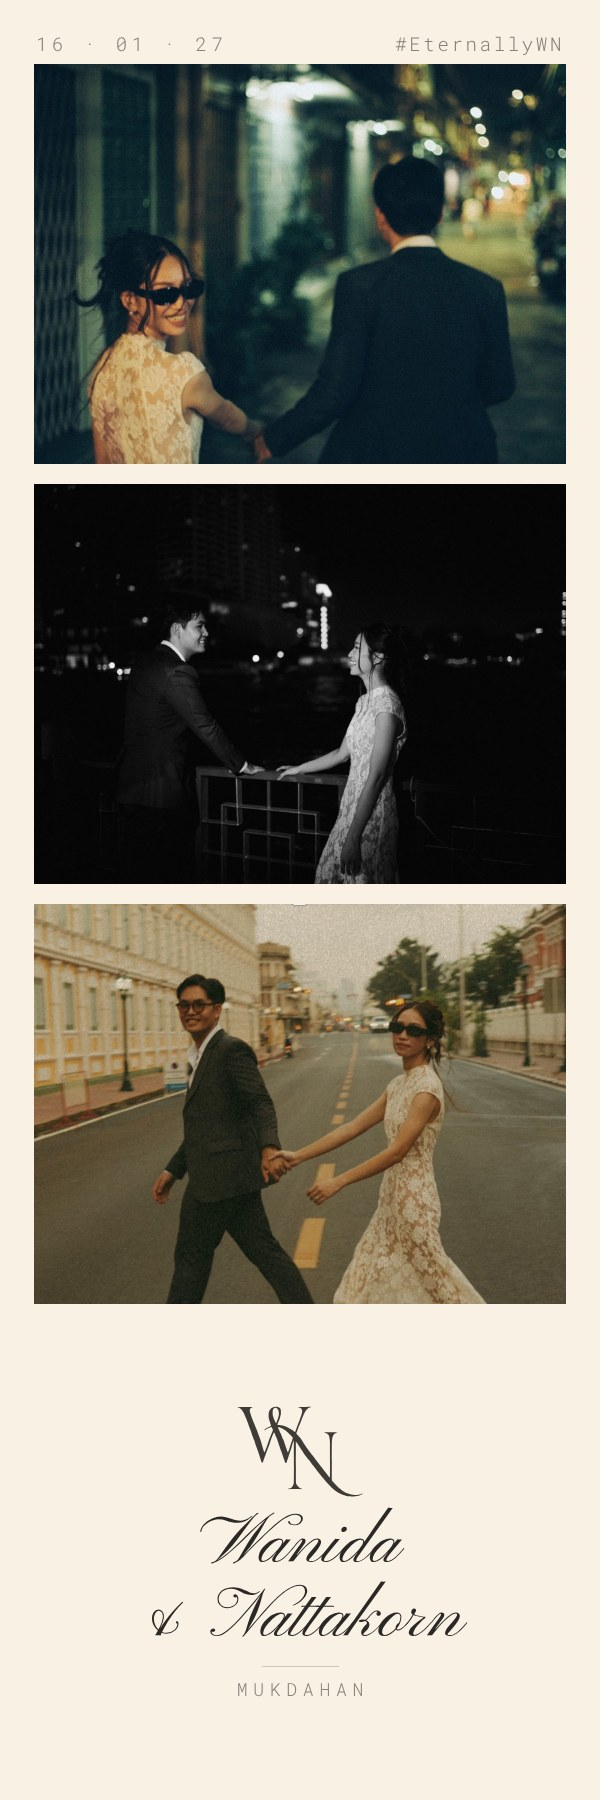
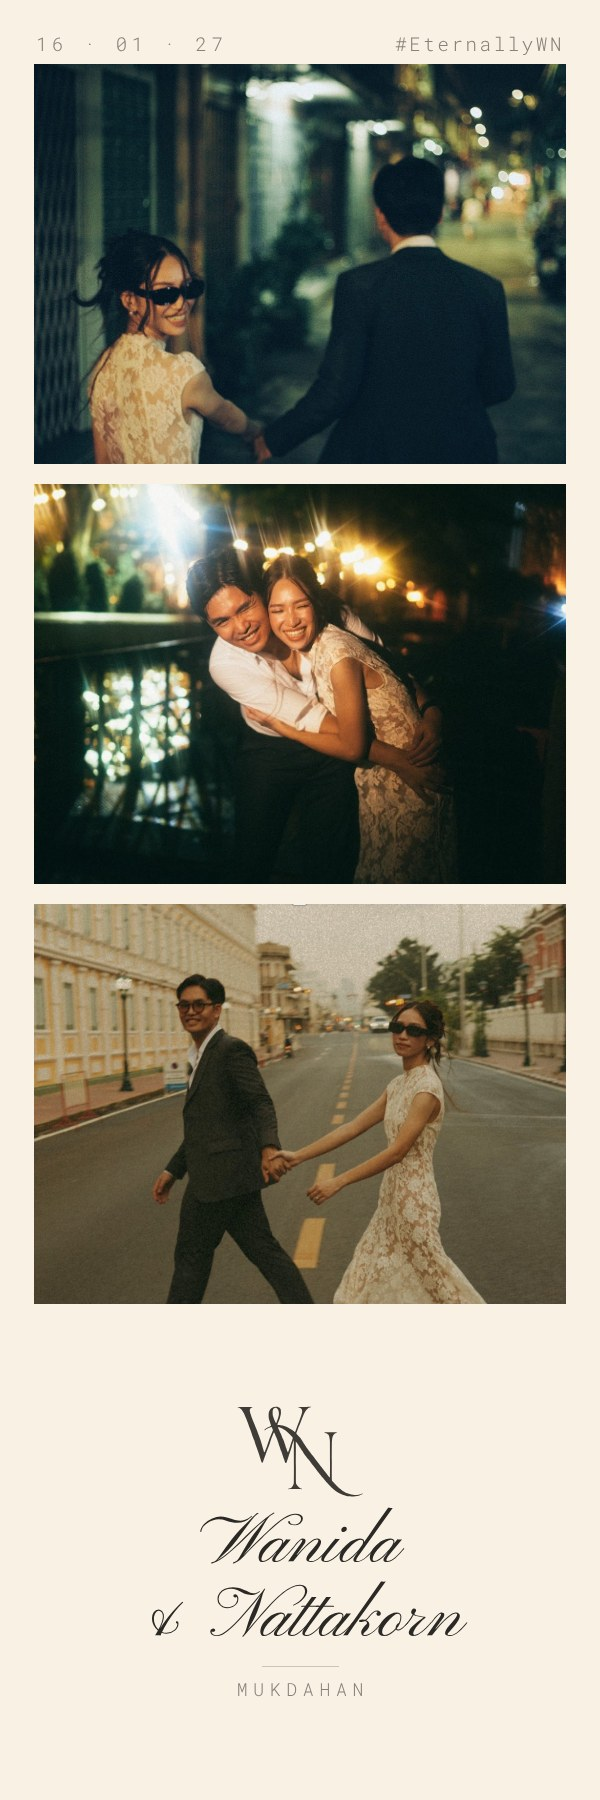
Photo booth previews: new sample photos
The one-pose 4x6 preview now uses the night-street photo of Eve smiling
back (pw-13) instead of the riverside photo (pw-15), which is also
dropped from the strip. The two-pose 4x6 and the strip use the laughing
hug under the string lights (pw-11). Only previews change; the PNG
overlays for the shop are the same.

Claude-Session: https://claude.ai/code/session_01DUdYM8obKhpKK1xEQz7N9u

Changed region(s): [[0.03, 0.2489, 0.78, 0.4978], [0.84, 0.28, 0.96, 0.3733]]

diff --git a/print/photo-booth/render-booth.js b/print/photo-booth/render-booth.js
@@ -18,19 +18,19 @@ const COLOURS = {
 // every size at 300 dpi; windows are [x, y, w, h]
 const LAYOUTS = {
   // 4x6 landscape, one pose: closest to the reference (cream border, date and hashtag in the top corners, names below)
-  '4x6-1pose': { w: 1800, h: 1200, wins: [[60, 92, 1680, 900]], photos: ['pw-15'],
+  '4x6-1pose': { w: 1800, h: 1200, wins: [[60, 92, 1680, 900]], photos: ['pw-13'],
     top: { y: 58, size: 26, inset: 64 }, foot: { y: 992, h: 208, names: 92, sub: 22, mono: 0 } },
   // 4x6 portrait, two poses (shop layout K)
-  '4x6-2pose': { w: 1200, h: 1800, wins: [[60, 92, 1080, 720], [60, 836, 1080, 720]], photos: ['pw-13', 'pw-06'],
+  '4x6-2pose': { w: 1200, h: 1800, wins: [[60, 92, 1080, 720], [60, 836, 1080, 720]], photos: ['pw-11@50% 38%', 'pw-06'],
     top: { y: 58, size: 24, inset: 64 }, foot: { y: 1556, h: 244, names: 96, sub: 22, mono: 0 } },
   // 2x6 strip, three poses (shop layouts A/B). The shop prints two strips side by side on one 4x6.
-  '2x6-3pose': { w: 600, h: 1800, wins: [[34, 64, 532, 400], [34, 484, 532, 400], [34, 904, 532, 400]], photos: ['pw-13', 'pw-15', 'pw-06'],
+  '2x6-3pose': { w: 600, h: 1800, wins: [[34, 64, 532, 400], [34, 484, 532, 400], [34, 904, 532, 400]], photos: ['pw-13', 'pw-11@50% 38%', 'pw-06'],
     top: { y: 42, size: 19, inset: 36 }, foot: { y: 1304, h: 496, names: 70, sub: 18, mono: 132 } },
 };
 
 const page = (L, C, withPhotos) => {
   const holes = L.wins.map(([x, y, w, h]) => `M${x} ${y}h${w}v${h}h-${w}z`).join('');
-  const pics = withPhotos ? L.wins.map(([x, y, w, h], i) => `<img src="${photo(L.photos[i])}" style="position:absolute;left:${x}px;top:${y}px;width:${w}px;height:${h}px;object-fit:cover">`).join('') : '';
+  const pics = withPhotos ? L.wins.map(([x, y, w, h], i) => { const [n, pos] = L.photos[i].split('@'); return `<img src="${photo(n)}" style="position:absolute;left:${x}px;top:${y}px;width:${w}px;height:${h}px;object-fit:cover;object-position:${pos || '50% 50%'}">`; }).join('') : '';
   const F = L.foot, T = L.top;
   return `<!doctype html><html><head><meta charset="utf-8">
 <link rel="stylesheet" href="https://fonts.googleapis.com/css2?family=Pinyon+Script&family=Quattrocento:wght@400&family=Roboto+Mono:wght@300;400&display=block">
